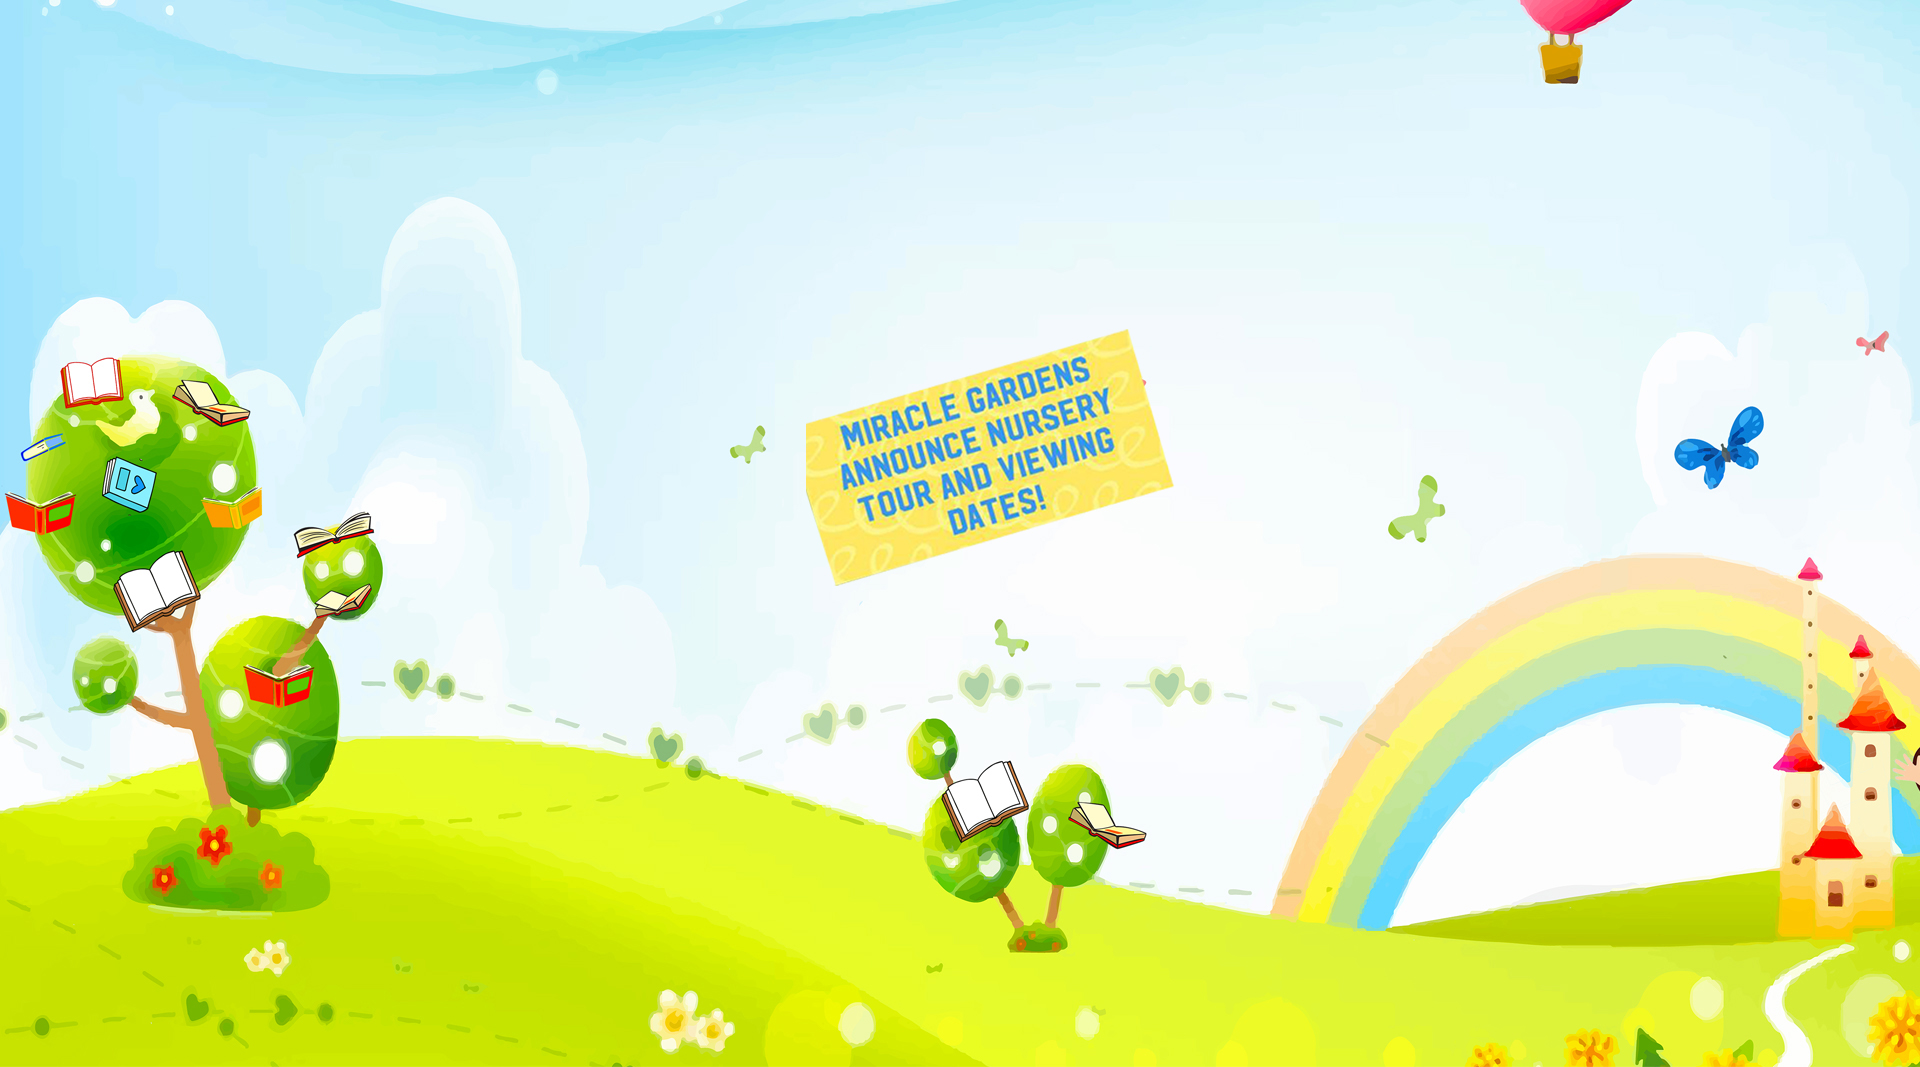
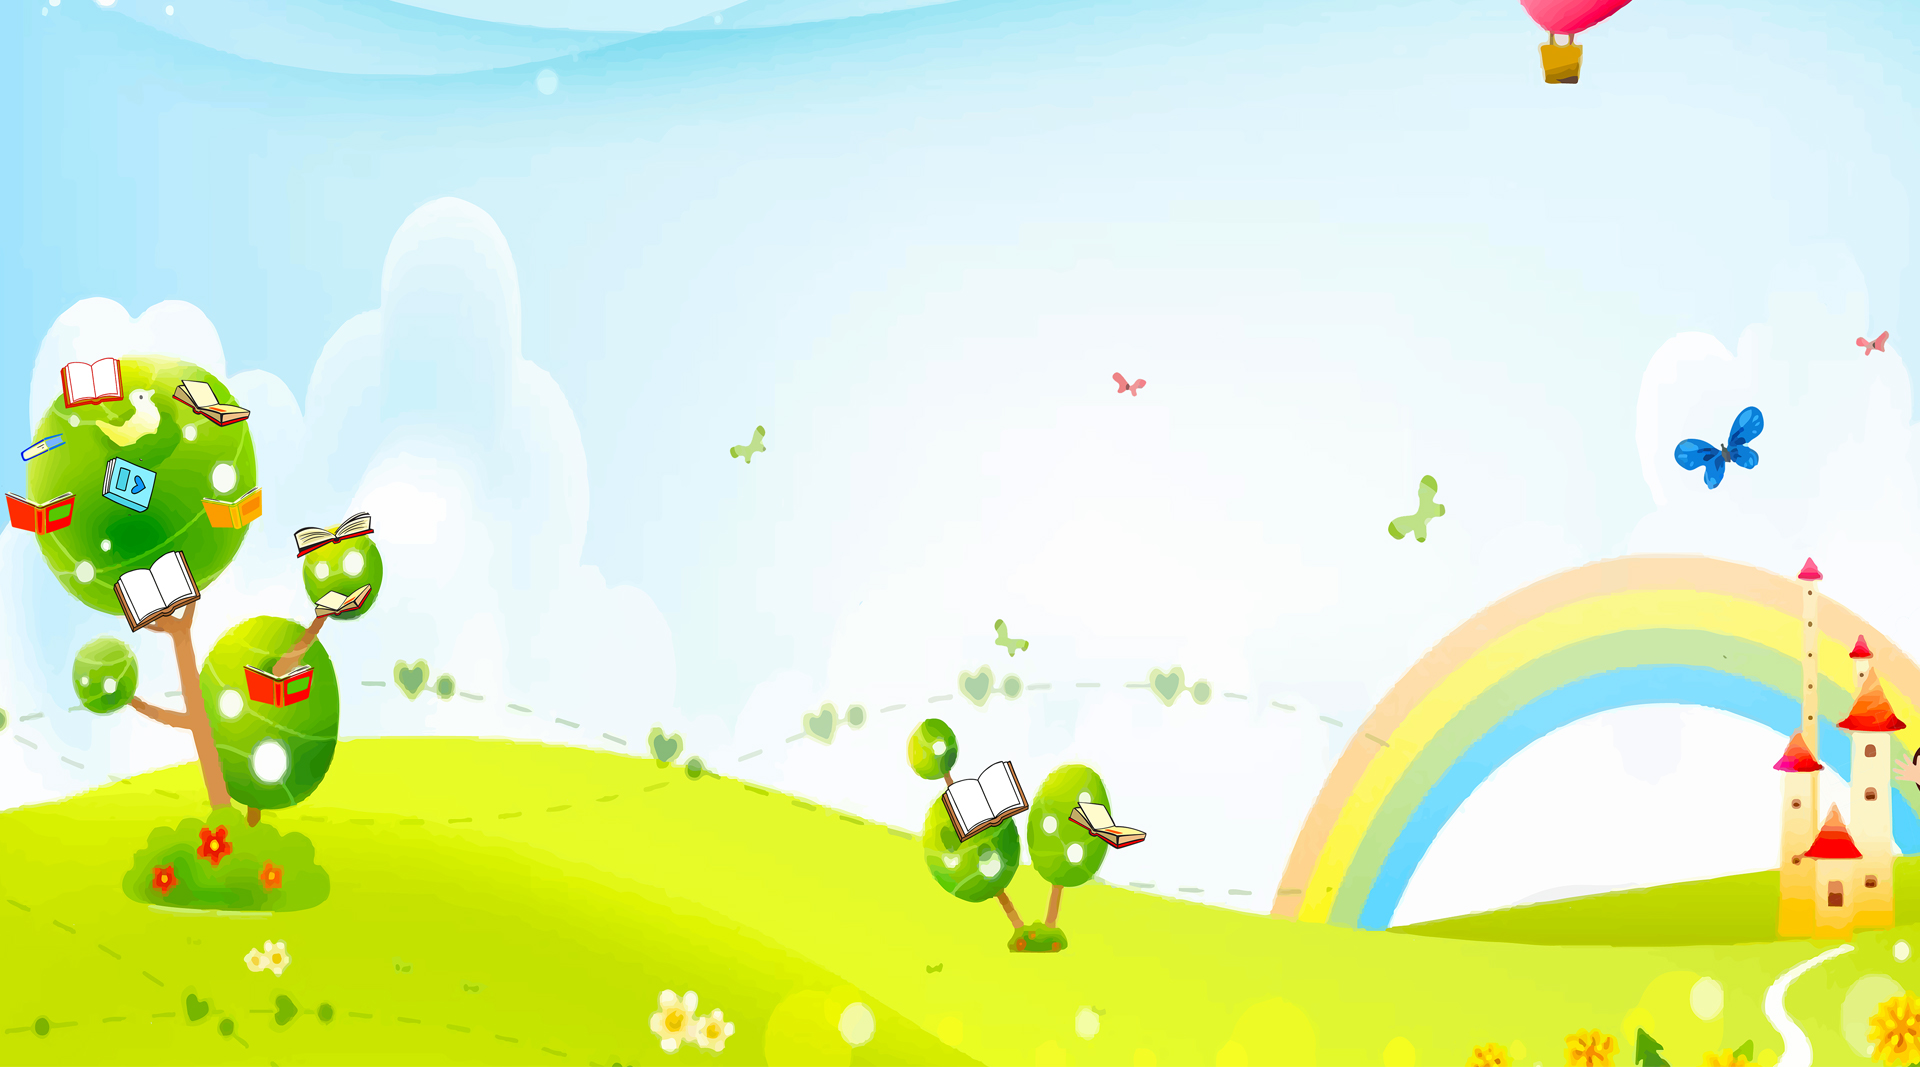
fg

Changed region(s): [[0.4062, 0.3093, 0.625, 0.5567]]

diff --git a/index.html b/index.html
@@ -182,8 +182,8 @@
 						<a href="#"><div class="hero_box d-flex flex-row align-items-center justify-content-start">
 							
 							<div class="hero_box_content">
-								<h2 class="hero_box_titleq">Thursday, 3rd August, 2.30pm-3.30pm
-									<br>Friday, 4th August, 10am-11am
+								<h2 class="hero_box_titleq">
+									Miracle Gardens Nursery tour and viewing dates!
 									<br>Wednesday, 16th August, 2.30pm-3.30pm
 									<br>Wednesday, 23rd August, 10am-11am
 									
